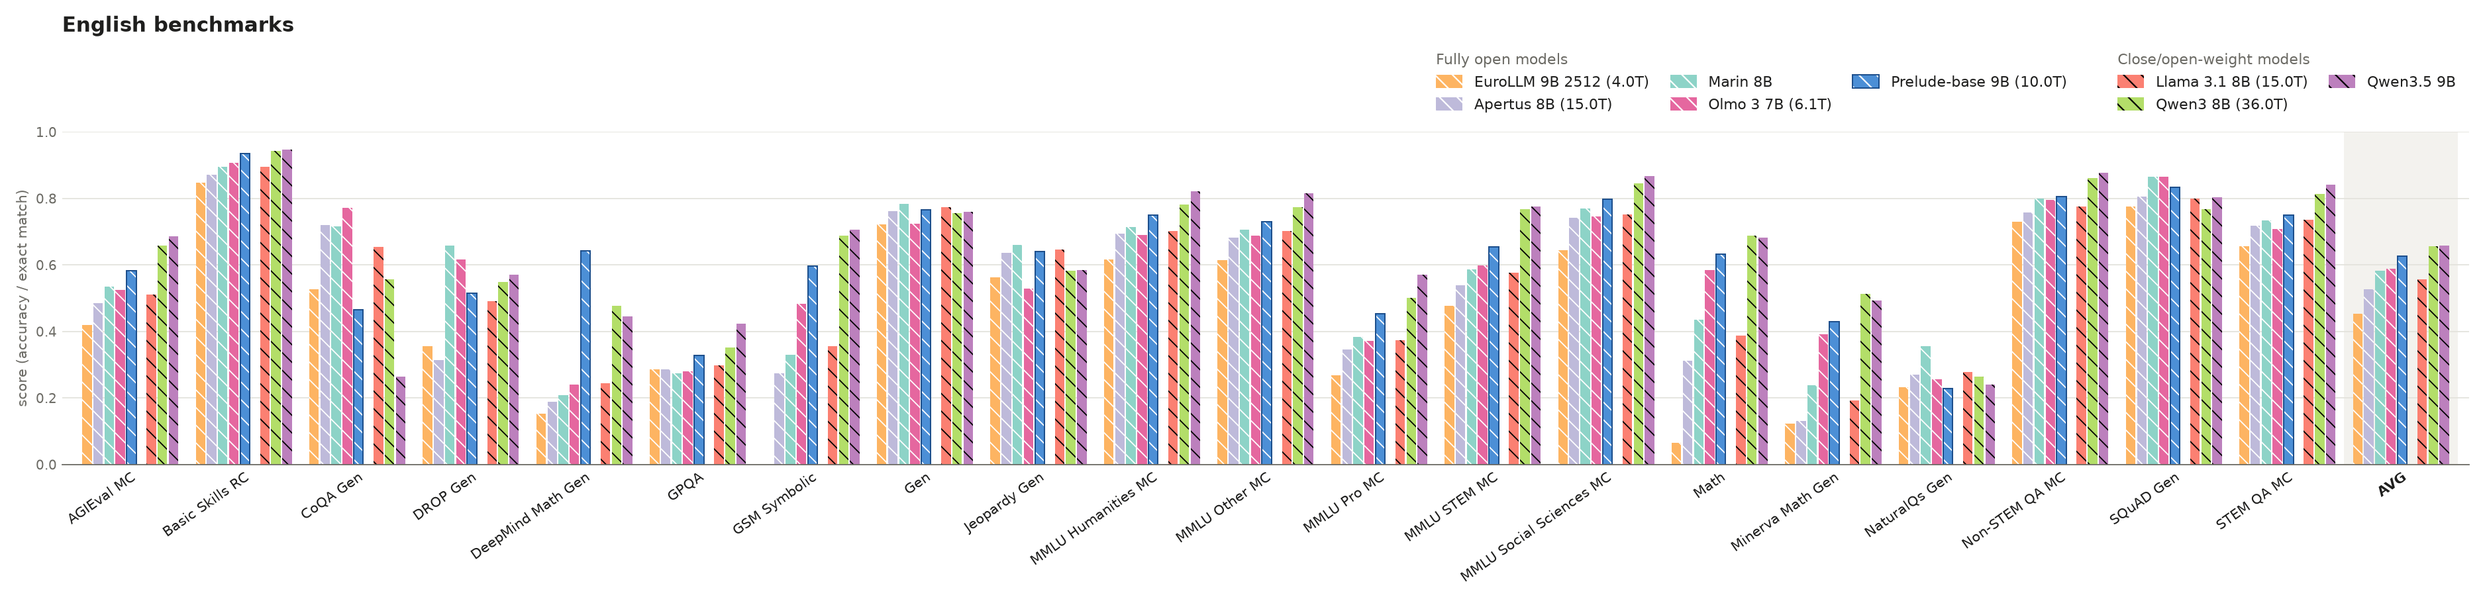
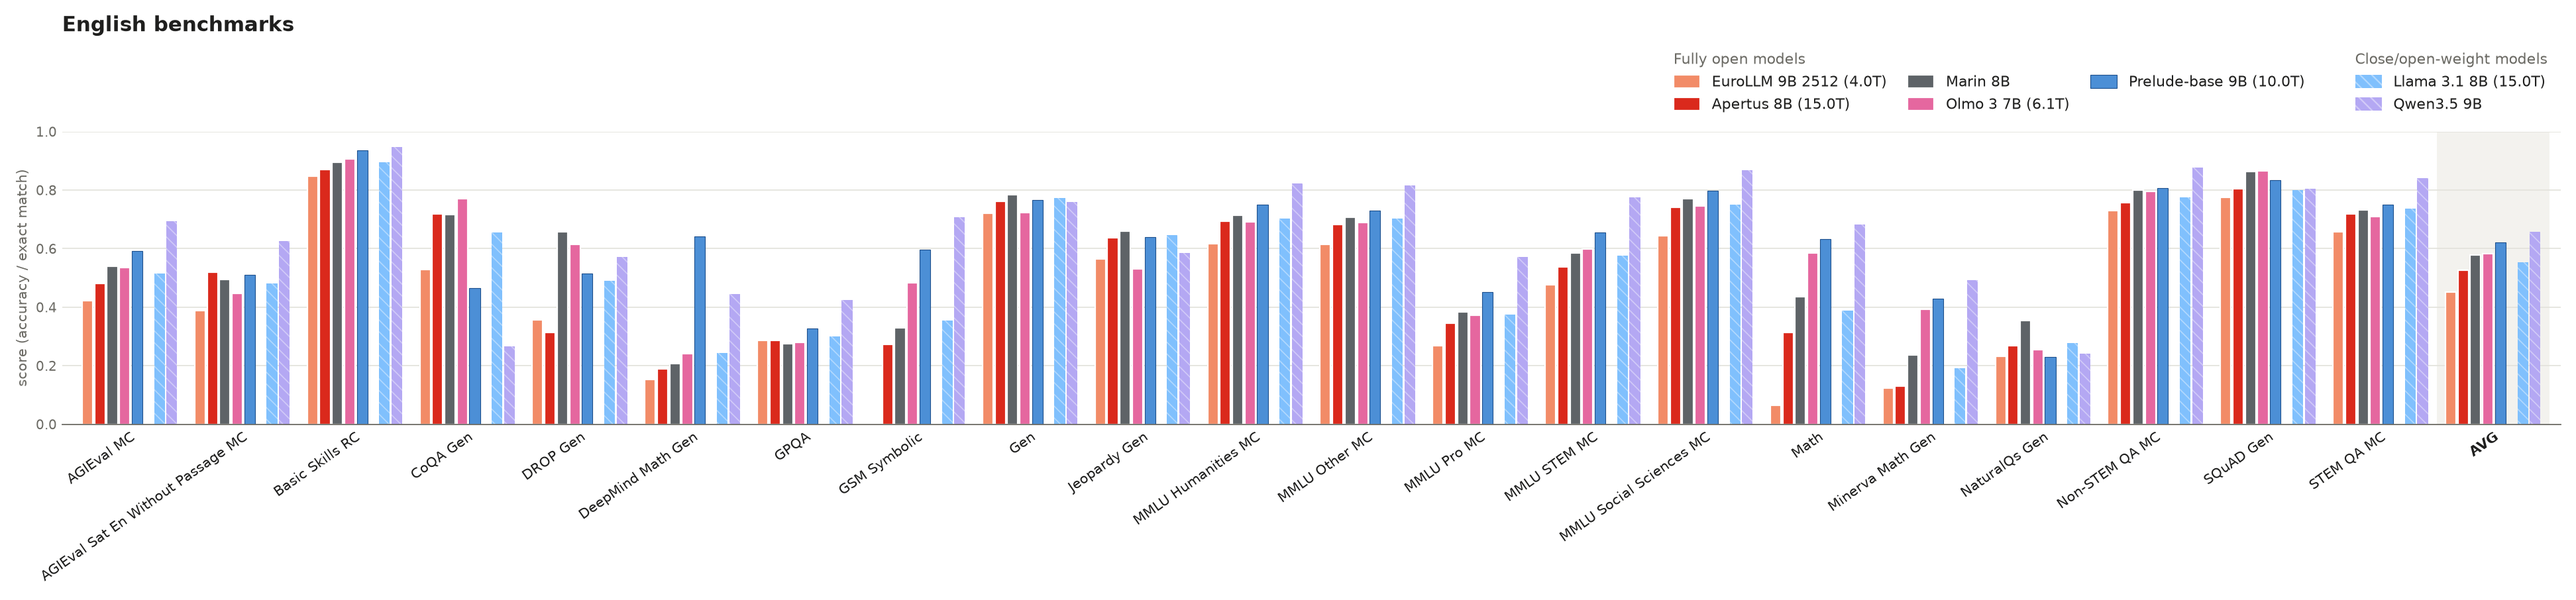
Tweak presentation and regenerate with plot_results.py
* Drop Qwen3 8B as we also have Qwen3.5 9B
* Remove hatching from bars for fully open models, lighten it for others
* Align more of the colors with the logos and similar of the models / orgs

diff --git a/prelude-evaluations-model-card/plot_results.py b/prelude-evaluations-model-card/plot_results.py
@@ -181,7 +181,7 @@ ENG_DEU_MODELS = {
     "apertus_8b": "Apertus 8B",
     "olmo_3_1025_7b": "Olmo 3 7B",
     "marin_8b": "Marin 8B",
-    "qwen3_8b": "Qwen3 8B",
+    #"qwen3_8b": "Qwen3 8B",    # only including one Qwen (3.5 9B)
     "qwen35_9b": "Qwen3.5 9B",
     "llama3_1_8b": "Llama 3.1 8B",
 }
@@ -191,7 +191,7 @@ MULTILINGUAL_MODELS = {
     "swiss-ai/Apertus-8B-2509": "Apertus 8B",
     "allenai/Olmo-3-1025-7B": "Olmo 3 7B",
     "marin-community/marin-8b-base": "Marin 8B",
-    "Qwen/Qwen3-8B-Base": "Qwen3 8B",
+    #"Qwen/Qwen3-8B-Base": "Qwen3 8B",    # only including one Qwen (3.5 9B)
     "Qwen/Qwen3.5-9B-Base": "Qwen3.5 9B",
     "meta-llama/Llama-3.1-8B": "Llama 3.1 8B",
 }
@@ -207,26 +207,32 @@ DISPLAY = {"Prelude 9B": "Prelude-base 9B",
 # Summarisation / rewriting / truthfulqa-gen (ROUGE-L, BLEU) are dropped.
 NOREVAL_METRICS = ["acc", "f1", "em_first", "errant_f05"]
 
-# One colour per model across all plots (models never shown together share
-# one). Hatch encodes openness: white diagonal = fully open (weights + data +
-# code), black diagonal = open weights only. Every Prelude checkpoint
-# is the same blue with a dark-blue outline and the white fully-open hatch
-# (8T and 10T never share a plot).
-# Baselines use Set3 colours (its blue left unused); Prelude a clearer blue.
+
+# Lighten a color by given amount
+def lighten(color, amount=0.5):
+    import matplotlib.colors as mcolors
+    rgb = mcolors.to_rgb(color)
+    return tuple(c + (1 - c) * amount for c in rgb)
+
+
+# One colour per model across all plots (models never shown together
+# share one). Every Prelude checkpoint is the same blue with a
+# dark-blue outline (8T and 10T never share a plot).
 PRELUDE_BLUE = "#4c8fd6"
 PRELUDE_EDGE = "#1d4f8c"   # darker shade of PRELUDE_BLUE for the outline
 OPEN, WEIGHTS = "fully open", "open weights"
 STYLES = {   # name -> (colour, style)
     "Prelude 9B": (PRELUDE_BLUE, OPEN),              # 8T, before the anneal
     "Prelude 9B + 2T anneal": (PRELUDE_BLUE, OPEN),  # 10T, final
-    "Apertus 8B": ("#bebada", OPEN),
+    "Apertus 8B": ("#da291c", OPEN),    # Swiss flag red
     "Olmo 3 7B": ("#e5679f", OPEN),   # Olmo brand pink
-    "Marin 8B": ("#8dd3c7", OPEN),
-    "EuroLLM 9B": ("#fdb462", OPEN),   # Apache 2.0; counted as open (data not released)
-    "EuroLLM 9B 2512": ("#fdb462", OPEN),
-    "Qwen3 8B": ("#b3de69", WEIGHTS),
-    "Qwen3.5 9B": ("#bc80bd", WEIGHTS),
-    "Llama 3.1 8B": ("#fb8072", WEIGHTS),
+    "Marin 8B": (lighten("#192026", 0.3), OPEN),    # Marin logo blue-gray
+    # EuroLLM is Apache 2.0; counted as open (data not released)
+    "EuroLLM 9B": (lighten("#ec5926", 0.3), OPEN),    # Utter logo orange
+    "EuroLLM 9B 2512": (lighten("#ec5926", 0.3), OPEN),
+    "Qwen3 8B": (lighten("#6950e8"), WEIGHTS),    # Qwen logo color
+    "Qwen3.5 9B": (lighten("#6950e8"), WEIGHTS),    # Qwen logo color
+    "Llama 3.1 8B": (lighten("#0081fb"), WEIGHTS),    # Meta logo blue
 }
 
 
@@ -462,13 +468,13 @@ def bars(ax, table: pd.DataFrame, names: dict[str, str]):
         xs = [j - 0.43 + offset for j in range(len(table.columns))]
         color, style = STYLES[names[label]]
         if style == WEIGHTS:
-            kw = dict(facecolor=color, edgecolor="black", hatch="\\\\", linewidth=0,
-                      hatch_linewidth=0.8)
-        else:                   # fully open: white diagonal hatch
-            kw = dict(facecolor=color, edgecolor="white", hatch="\\\\", linewidth=0,
-                      hatch_linewidth=0.8)
+            hatchcolor = lighten(color, 0.4)
+            kw = dict(facecolor=color, edgecolor="white", hatch='\\\\\\',
+                      linewidth=0, hatch_linewidth=0.75, hatchcolor=hatchcolor)
+        else:
+            kw = dict(facecolor=color, edgecolor="white")
         if names[label].startswith("Prelude"):   # outline only our model
-            kw.update(edgecolor=PRELUDE_EDGE, linewidth=0.9, hatchcolor="white")
+            kw.update(edgecolor=PRELUDE_EDGE, linewidth=0.5, hatchcolor="white")
         ax.bar(xs, row, width=slot * 0.86, label=label, zorder=2, **kw)
     if "AVG" in table.columns:
         j = list(table.columns).index("AVG")

diff --git a/prelude-evaluations-model-card/README.md b/prelude-evaluations-model-card/README.md
@@ -15,7 +15,7 @@ followed by open-weight models (black diagonal hatching).
 
 # Results
 
-Automatically generated by `plot_results.py` on 2026-11-10; do not edit below this line.
+Automatically generated by `plot_results.py` on 2026-11-12; do not edit below this line.
 
 ## English (decontaminated only)
 
@@ -31,8 +31,7 @@ Automatically generated by `plot_results.py` on 2026-11-10; do not edit below th
 | Prelude-base 9B (10.0T) | 0.33 | 0.77 | 0.75 | 0.73 | 0.66 | 0.80 | 0.63 | 0.43 | 0.82 | 0.90 | 0.68 |
 | ***Close/open-weight models*** | | | | | | | | | | | |
 | Llama 3.1 8B (15.0T) | 0.30 | 0.78 | 0.70 | 0.70 | 0.58 | 0.75 | 0.39 | 0.19 | 0.78 | 0.83 | 0.60 |
-| Qwen3 8B (36.0T) | 0.35 | 0.76 | 0.78 | 0.77 | 0.77 | 0.85 | **0.69** | **0.51** | **0.87** | **0.93** | 0.73 |
-| Qwen3.5 9B | **0.42** | 0.77 | **0.82** | **0.82** | **0.78** | **0.87** | 0.68 | 0.49 | **0.87** | **0.93** | **0.75** |
+| Qwen3.5 9B | **0.42** | 0.77 | **0.82** | **0.82** | **0.78** | **0.87** | **0.68** | **0.49** | **0.87** | **0.93** | **0.75** |
 
 ## Multilingual (decontaminated only)
 
@@ -41,32 +40,30 @@ Automatically generated by `plot_results.py` on 2026-11-10; do not edit below th
 | model | ARC Challenge MT | Belebele | Global MMLU | INCLUDE | MultiBLiMP | XCSQA | xHellaSwag | AVG |
 |---|---:|---:|---:|---:|---:|---:|---:|---:|
 | ***Fully open models*** | | | | | | | | |
-| Olmo 3 7B | 0.30 | 0.66 | 0.44 | 0.37 | 0.78 | 0.34 | 0.41 | 0.47 |
-| Marin 8B | 0.31 | 0.69 | 0.48 | 0.39 | 0.82 | 0.33 | 0.47 | 0.50 |
+| Olmo 3 7B | 0.30 | 0.66 | 0.46 | 0.37 | 0.78 | 0.34 | 0.41 | 0.47 |
+| Marin 8B | 0.31 | 0.70 | 0.49 | 0.40 | 0.82 | 0.33 | 0.47 | 0.50 |
 | EuroLLM 9B | 0.41 | 0.74 | 0.53 | 0.49 | 0.92 | 0.36 | 0.62 | 0.58 |
-| Apertus 8B (15.0T) | 0.46 | 0.79 | 0.58 | 0.58 | **0.94** | 0.42 | **0.64** | 0.63 |
-| Prelude-base 9B (8.0T) | 0.42 | 0.73 | 0.53 | 0.48 | 0.92 | 0.42 | 0.61 | 0.59 |
+| Apertus 8B (15.0T) | 0.46 | 0.79 | 0.59 | 0.58 | **0.94** | 0.42 | 0.64 | 0.63 |
+| Prelude-base 9B (10.0T) | **0.48** | 0.87 | 0.66 | 0.62 | **0.94** | **0.44** | **0.65** | 0.66 |
 | ***Close/open-weight models*** | | | | | | | | |
-| Llama 3.1 8B | 0.39 | 0.77 | 0.54 | 0.51 | 0.90 | 0.43 | 0.56 | 0.59 |
-| Qwen3 8B | 0.42 | 0.87 | 0.68 | 0.61 | 0.77 | **0.44** | 0.57 | 0.62 |
-| Qwen3.5 9B | **0.47** | **0.91** | **0.70** | **0.66** | 0.89 | 0.40 | 0.62 | **0.66** |
+| Llama 3.1 8B | 0.39 | 0.78 | 0.55 | 0.52 | 0.90 | 0.43 | 0.56 | 0.59 |
+| Qwen3.5 9B | 0.46 | **0.91** | **0.71** | **0.67** | 0.89 | 0.40 | 0.62 | **0.67** |
 
 ## German
 
 ![German results](figures/plot_results_german_all.png)
 
-| model | AGIEval MC | CoQA Gen | GLP | GLP MC | Gen | Held-out | INCLUDE MC | MMLU Pro MC | MMMLU Non-STEM MC | MMMLU STEM MC | MMMLU Social Sciences MC | Minerva Math Gen | Non-STEM QA MC | STEM QA MC | AVG |
-|---|---:|---:|---:|---:|---:|---:|---:|---:|---:|---:|---:|---:|---:|---:|---:|
-| ***Fully open models*** | | | | | | | | | | | | | | | |
-| Olmo 3 7B (6.1T) | 0.42 | 0.33 | 0.89 | 0.64 | 0.53 | 0.29 | 0.51 | 0.28 | 0.48 | 0.46 | 0.48 | 0.20 | 0.79 | 0.67 | 0.50 |
-| Marin 8B | 0.45 | 0.38 | 0.91 | 0.66 | 0.62 | 0.27 | 0.49 | 0.29 | 0.51 | 0.48 | 0.50 | 0.12 | 0.89 | 0.78 | 0.53 |
-| EuroLLM 9B 2512 (4.0T) | 0.40 | 0.32 | **0.96** | 0.69 | 0.76 | 0.27 | 0.49 | 0.26 | 0.52 | 0.45 | 0.46 | 0.09 | 0.91 | 0.81 | 0.53 |
-| Apertus 8B (15.0T) | 0.46 | **0.44** | **0.96** | 0.74 | 0.80 | 0.27 | 0.56 | 0.32 | 0.59 | 0.50 | 0.57 | 0.08 | 0.94 | 0.87 | 0.58 |
-| Prelude-base 9B (10.0T) | 0.56 | 0.36 | **0.96** | 0.79 | **0.81** | 0.30 | 0.59 | 0.41 | 0.64 | 0.62 | 0.67 | 0.21 | 0.96 | 0.93 | 0.63 |
-| ***Close/open-weight models*** | | | | | | | | | | | | | | | |
-| Llama 3.1 8B (15.0T) | 0.45 | 0.41 | 0.95 | 0.68 | 0.73 | 0.26 | 0.49 | 0.31 | 0.55 | 0.48 | 0.54 | 0.10 | 0.91 | 0.80 | 0.55 |
-| Qwen3 8B (36.0T) | 0.60 | 0.32 | 0.95 | 0.86 | 0.74 | 0.34 | **0.69** | 0.46 | 0.69 | **0.72** | 0.76 | **0.36** | 0.96 | 0.95 | 0.67 |
-| Qwen3.5 9B | **0.65** | 0.22 | **0.96** | **0.87** | 0.80 | **0.38** | 0.68 | **0.51** | **0.72** | **0.72** | **0.79** | 0.35 | **0.98** | **0.96** | **0.69** |
+| model | AGIEval MC | AGIEval Sat En Without Passage MC | CoQA Gen | GLP | GLP MC | Gen | Held-out | INCLUDE MC | MMLU Pro MC | MMMLU Non-STEM MC | MMMLU STEM MC | MMMLU Social Sciences MC | Minerva Math Gen | Non-STEM QA MC | STEM QA MC | AVG |
+|---|---:|---:|---:|---:|---:|---:|---:|---:|---:|---:|---:|---:|---:|---:|---:|---:|
+| ***Fully open models*** | | | | | | | | | | | | | | | | |
+| Olmo 3 7B (6.1T) | 0.42 | 0.36 | 0.33 | 0.89 | 0.64 | 0.53 | 0.29 | 0.51 | 0.28 | 0.48 | 0.46 | 0.48 | 0.20 | 0.79 | 0.67 | 0.49 |
+| EuroLLM 9B 2512 (4.0T) | 0.40 | 0.38 | 0.32 | **0.96** | 0.69 | 0.76 | 0.27 | 0.49 | 0.26 | 0.52 | 0.45 | 0.46 | 0.09 | 0.91 | 0.81 | 0.52 |
+| Marin 8B | 0.46 | 0.42 | 0.38 | 0.91 | 0.66 | 0.62 | 0.27 | 0.49 | 0.29 | 0.51 | 0.48 | 0.50 | 0.12 | 0.89 | 0.78 | 0.52 |
+| Apertus 8B (15.0T) | 0.46 | 0.42 | **0.44** | **0.96** | 0.74 | 0.80 | 0.27 | 0.56 | 0.32 | 0.59 | 0.50 | 0.57 | 0.08 | 0.94 | 0.87 | 0.57 |
+| Prelude-base 9B (10.0T) | 0.57 | 0.48 | 0.36 | **0.96** | 0.79 | **0.81** | 0.30 | 0.59 | 0.41 | 0.64 | 0.62 | 0.67 | 0.21 | 0.96 | 0.93 | 0.62 |
+| ***Close/open-weight models*** | | | | | | | | | | | | | | | | |
+| Llama 3.1 8B (15.0T) | 0.45 | 0.42 | 0.41 | 0.95 | 0.68 | 0.73 | 0.26 | 0.49 | 0.31 | 0.55 | 0.48 | 0.54 | 0.10 | 0.91 | 0.80 | 0.54 |
+| Qwen3.5 9B | **0.67** | **0.53** | 0.22 | **0.96** | **0.87** | 0.80 | **0.38** | **0.68** | **0.51** | **0.72** | **0.72** | **0.79** | **0.35** | **0.98** | **0.96** | **0.68** |
 
 ## Norwegian
 
@@ -81,5 +78,4 @@ Automatically generated by `plot_results.py` on 2026-11-10; do not edit below th
 | Prelude-base 9B (10.0T) | **0.47** | 0.68 | **0.81** | 0.55 | **0.56** | **0.86** | 0.71 | **0.81** | 0.75 | 0.69 | 0.58 | 0.35 | **0.56** | 0.86 | 0.81 | 0.71 | 0.67 | 0.53 | 0.57 | 0.67 | 0.56 | **67.8** | **76.2** | 55.6 | **46.2** | 58.2 | 0.4 | **59.4** | 3.0 | 0.65 |
 | ***Close/open-weight models*** | | | | | | | | | | | | | | | | | | | | | | | | | | | | | | |
 | Llama 3.1 8B | 0.16 | 0.67 | 0.76 | 0.47 | 0.47 | 0.81 | 0.76 | 0.63 | 0.60 | 0.49 | 0.36 | 0.15 | 0.19 | 0.67 | 0.62 | 0.43 | 0.40 | 0.61 | 0.57 | 0.54 | 0.57 | 56.2 | 61.7 | 44.8 | 31.4 | 57.9 | 0.3 | 54.6 | 2.1 | 0.52 |
-| Qwen3 8B | 0.37 | 0.63 | 0.71 | 0.52 | 0.49 | 0.68 | 0.88 | 0.72 | 0.85 | 0.72 | 0.51 | 0.11 | 0.10 | **0.90** | 0.81 | 0.76 | 0.72 | 0.61 | **0.62** | 0.70 | **0.73** | 51.9 | 68.8 | 44.4 | 22.8 | 56.0 | 0.4 | 51.6 | 2.6 | 0.63 |
-| Qwen3.5 9B | 0.36 | 0.69 | 0.78 | **0.56** | 0.53 | 0.80 | **0.90** | 0.61 | **0.86** | **0.75** | **0.60** | 0.24 | 0.24 | 0.89 | **0.87** | **0.81** | **0.76** | 0.51 | 0.59 | **0.81** | 0.64 | 63.6 | 71.3 | 50.7 | 35.5 | 60.2 | 0.7 | 56.5 | **14.6** | **0.66** |
+| Qwen3.5 9B | 0.36 | 0.69 | 0.78 | **0.56** | 0.53 | 0.80 | **0.90** | 0.61 | **0.86** | **0.75** | **0.60** | 0.24 | 0.24 | **0.89** | **0.87** | **0.81** | **0.76** | 0.51 | **0.59** | **0.81** | **0.64** | 63.6 | 71.3 | 50.7 | 35.5 | 60.2 | 0.7 | 56.5 | **14.6** | **0.66** |
